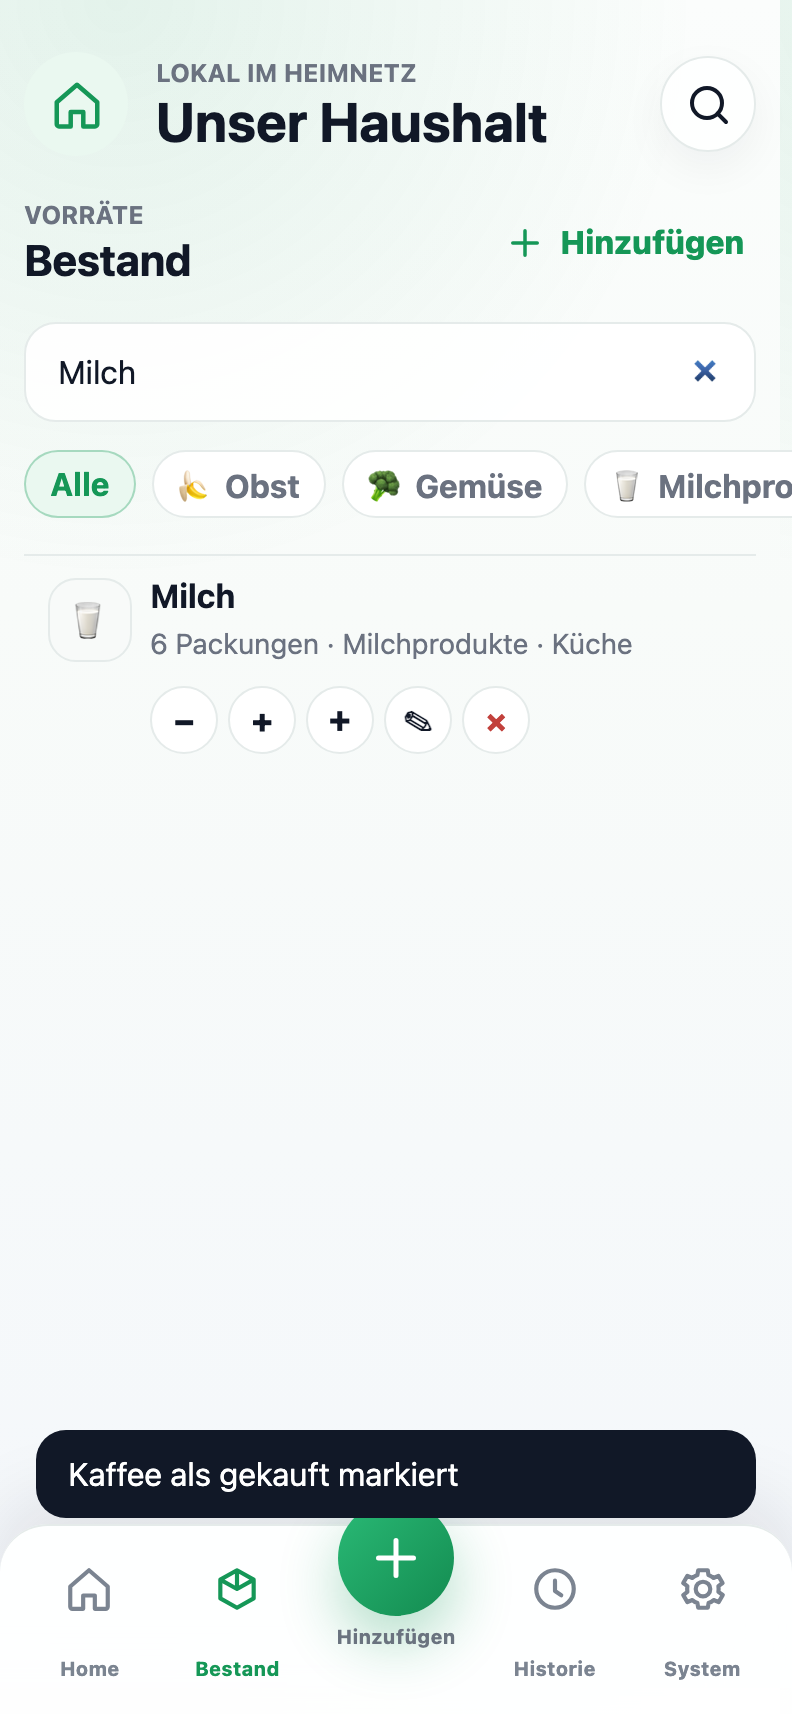
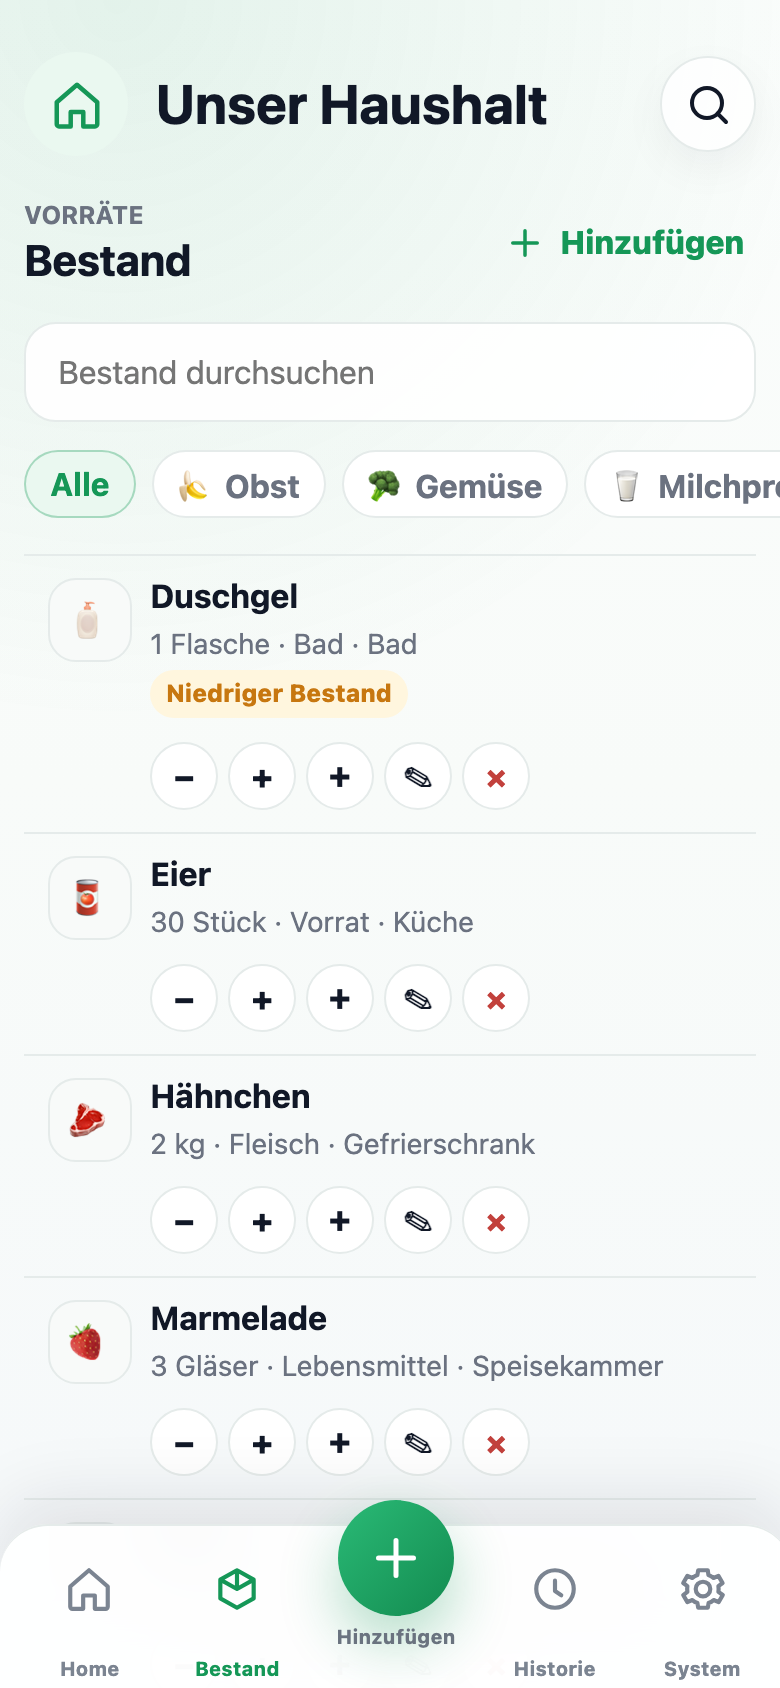
Rewrite README in English, replace screenshots with clean new captures

diff --git a/README.md b/README.md
@@ -1,86 +1,91 @@
 # 🏠 Household Manager
 
-> Mobile-first Haushalts-App für gemeinsame Einkaufslisten und eine übersichtliche Vorratshaltung – ohne Accounts, ohne Cloud-Zwang.
+> A mobile-first household app for shared shopping lists and a clear pantry overview — no accounts, no forced cloud.
 
-**Household Manager** ist das gemeinsame Gedächtnis für deinen Haushalt. Alle notieren in Sekunden, was fehlt – Lebensmittel, Badartikel oder Haushaltswaren – und beim Einkaufen wird die Liste einfach abgehakt. Gekaufte Dinge wandern automatisch in die Historie und optional in den Vorrat.
+**Household Manager** is the shared memory for your home. Everyone can jot down what's missing in seconds — groceries, bathroom supplies or household goods — and check items off while shopping. Purchased items move automatically into the history and, optionally, into your pantry stock.
 
-Die komplette Oberfläche ist auf **Deutsch** und für die Nutzung am Smartphone optimiert: im Supermarkt, in der Küche oder schnell vom Sofa aus.
+The app is built for the phone — in the supermarket, in the kitchen, or quickly from the couch — and runs entirely on your own network or server, so your data stays with you.
+
+> 🇩🇪 The app's interface is in **German** (built for a German household). This README is in English for a wider audience.
 
 ---
 
 ## 📱 Screenshots
 
 <p align="center">
-  <img src="screenshots/home.png" alt="Startseite mit Einkaufsliste" width="22%" />
-  <img src="screenshots/add.png" alt="Eintrag hinzufügen" width="22%" />
-  <img src="screenshots/inventory.png" alt="Vorratsübersicht" width="22%" />
-  <img src="screenshots/shop-layout.png" alt="Sortierung nach Laden" width="22%" />
+  <img src="screenshots/home.png" alt="Shopping list" width="30%" />
+  &nbsp;&nbsp;
+  <img src="screenshots/inventory.png" alt="Pantry inventory" width="30%" />
+  &nbsp;&nbsp;
+  <img src="screenshots/shops.png" alt="Filter by shop" width="30%" />
 </p>
 
 ---
 
-## ✨ Funktionen
+## ✨ Features
 
-- 🛒 **Gemeinsame Einkaufsliste** – in unter 5 Sekunden einen Eintrag hinzufügen, in unter 2 Sekunden abhaken.
-- 📦 **Vorratsübersicht** – sieh auf einen Blick, was zuhause noch da ist und was zur Neige geht.
-- 🏪 **Mehrere Läden** – ordne Einträge Geschäften zu (DM, Rewe, Lidl, Edeka, Aldi, Rossmann …) und sortiere die Liste passend zum Einkauf.
-- 📸 **Fotos & Kategorien** – optionale Produktfotos und Kategorien für schnelleres Wiederfinden.
-- 🕑 **Historie** – gekaufte Artikel verschwinden aus der offenen Liste, bleiben aber nachvollziehbar.
-- 📲 **Mobile-first** – helle, ruhige Oberfläche mit großer Plus-Aktion und Bottom-Navigation.
-- 🔒 **Lokal & ohne Accounts** – läuft im eigenen Netzwerk oder auf dem eigenen Server, deine Daten bleiben bei dir.
+- 🛒 **Shared shopping list** — add an item in under 5 seconds, check it off in under 2.
+- 📦 **Pantry overview** — see at a glance what's still at home and what's running low.
+- 🏪 **Multiple shops** — assign items to stores (DM, Rewe, Lidl, Edeka, Aldi, Rossmann …) and filter the list to match where you're shopping.
+- 📸 **Photos & categories** — optional product photos and categories for faster recognition.
+- 🕑 **History** — purchased items leave the open list but stay traceable.
+- 📲 **Mobile-first** — a calm, bright interface with a prominent quick-add button and bottom navigation.
+- 🔒 **Local & account-free** — runs on your own network or server; no sign-up, no cloud lock-in.
 
 ---
 
-## 🚀 Lokal starten
+## 🚀 Run locally
 
-Voraussetzung: **Python 3** (mehr braucht es nicht – die App nutzt nur die Standardbibliothek).
+Requirement: **Python 3** — that's it (the app only uses the standard library).
 
 ```bash
 PORT=4173 HOUSEHOLD_DATA_DIR=./data python3 server.py
 ```
 
-Dann im Browser öffnen:
+Then open in your browser:
 
 ```text
 http://127.0.0.1:4173
 ```
 
-## 🐳 Mit Docker
+## 🐳 Run with Docker
 
 ```bash
 docker compose up --build
 ```
 
-Die App läuft anschließend unter [http://localhost:8080](http://localhost:8080).
-Die SQLite-Datenbank wird im Docker-Volume `household-data` gespeichert und bleibt zwischen Neustarts erhalten.
+The app is then available at [http://localhost:8080](http://localhost:8080).
+The SQLite database is stored in the `household-data` Docker volume and persists across restarts.
 
 ---
 
-## 🧱 Technik
+## 🧱 Tech stack
 
-| Bereich    | Eingesetzt                                |
-|------------|-------------------------------------------|
-| Backend    | Python (Standardbibliothek `http.server`) |
-| Frontend   | HTML, CSS, Vanilla JavaScript             |
-| Datenbank  | SQLite                                    |
-| Deployment | Docker / Docker Compose                   |
+| Area       | Used                                       |
+|------------|--------------------------------------------|
+| Backend    | Python (standard-library `http.server`)    |
+| Frontend   | HTML, CSS, vanilla JavaScript              |
+| Database   | SQLite                                     |
+| Deployment | Docker / Docker Compose                    |
 
-## 📂 Projektstruktur
+## 📂 Project structure
 
 ```text
-├── server.py          # Backend: serviert die App und speichert den Zustand in SQLite
-├── index.html         # Oberfläche
+├── server.py          # Backend: serves the app and stores state in SQLite
+├── index.html         # Interface
 ├── styles.css         # Styling
-├── app.js             # Frontend-Logik
-├── assets/            # Laden-Logos (DM, Rewe, Lidl, …)
-├── Dockerfile         # Container-Build
-├── docker-compose.yml # Lokaler/Server-Start per Compose
-└── project-idea.md    # Produkt- und Designkonzept
+├── app.js             # Frontend logic
+├── assets/            # Shop logos (DM, Rewe, Lidl, …)
+├── screenshots/       # Screenshots used in this README
+├── docs/              # Design reference
+├── Dockerfile         # Container build
+├── docker-compose.yml # Local / server start via Compose
+└── project-idea.md    # Product & design concept (German)
 ```
 
 ## 🧪 QA
 
-Mit laufendem Server prüft ein Smoke-Test die mobilen Kernflows (Hinzufügen, Foto-Upload, Kaufen, Bestandssuche, Einstellungen, serverseitige Persistenz):
+With the server running, a smoke test checks the core mobile flows (adding, photo upload, purchasing, inventory search, settings, server-side persistence):
 
 ```bash
 QA_BASE_URL=http://127.0.0.1:4173 node qa-smoke.js
@@ -88,4 +93,4 @@ QA_BASE_URL=http://127.0.0.1:4173 node qa-smoke.js
 
 ---
 
-<p align="center"><em>Ruhig. Schnell. Alltagstauglich.</em></p>
+<p align="center"><em>Calm. Fast. Made for everyday life.</em></p>